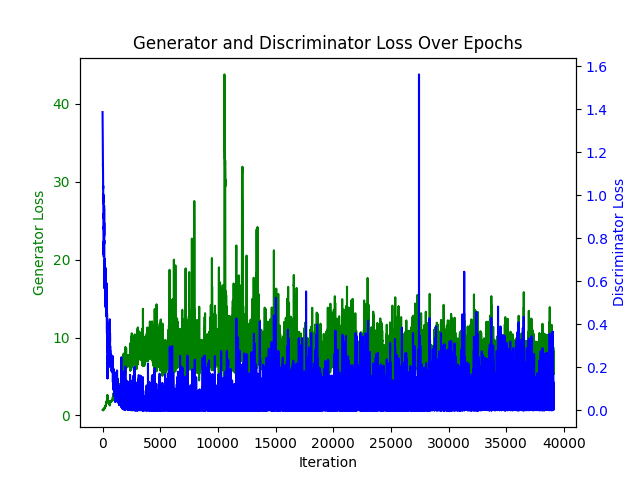
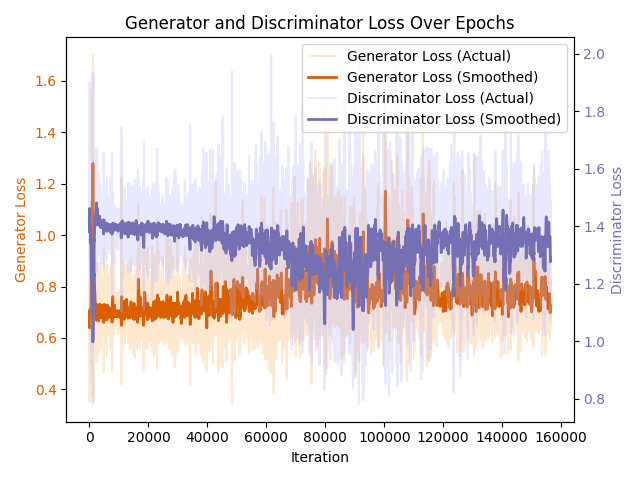
Modify basic GAN

diff --git a/generator.py b/generator.py
@@ -5,18 +5,19 @@ from torchvision import datasets, transforms
 from torchvision.utils import save_image
 import matplotlib.pyplot as plt
 import os
+import numpy as np
 
-# DataLoader for CIFAR-10
+# CIFAR-10 dataloader
 def get_dataloader(batch_size):
     transform = transforms.Compose([
         transforms.ToTensor(),
-        transforms.Normalize((0.5, 0.5, 0.5), (0.5, 0.5, 0.5))
+        transforms.Normalize((0.5, 0.5, 0.5), (0.5, 0.5, 0.5)) # 归一化
     ])
     dataset = datasets.CIFAR10(root='./data', train=True, download=True, transform=transform)
     dataloader = torch.utils.data.DataLoader(dataset, batch_size=batch_size, shuffle=True)
     return dataloader
 
-# Generator for GAN
+# GAN 生成器
 class Generator(nn.Module):
     def __init__(self, noise_dim, img_channels):
         super(Generator, self).__init__()
@@ -35,7 +36,7 @@ class Generator(nn.Module):
         x = self.model(x)
         return x.view(x.size(0), 3, 32, 32)
 
-# Discriminator for GAN
+# GAN 判别器
 class Discriminator(nn.Module):
     def __init__(self, img_channels):
         super(Discriminator, self).__init__()
@@ -54,7 +55,7 @@ class Discriminator(nn.Module):
     def forward(self, x):
         return self.model(x)
 
-# Training GAN
+# 训练 GAN
 def train_gan(dataloader, generator, discriminator, g_optimizer, d_optimizer, criterion, noise_dim, device, epochs):
     generator.train()
     discriminator.train()
@@ -67,7 +68,7 @@ def train_gan(dataloader, generator, discriminator, g_optimizer, d_optimizer, cr
             real_images = real_images.to(device)
             batch_size = real_images.size(0)
 
-            # Train Discriminator
+            # 训练判别器
             noise = torch.randn(batch_size, noise_dim).to(device)
             fake_images = generator(noise)
 
@@ -81,7 +82,7 @@ def train_gan(dataloader, generator, discriminator, g_optimizer, d_optimizer, cr
             d_loss.backward()
             d_optimizer.step()
 
-            # Train Generator
+            # 训练生成器
             g_optimizer.zero_grad()
             g_loss = criterion(discriminator(fake_images), real_labels)
             g_loss.backward()
@@ -92,14 +93,14 @@ def train_gan(dataloader, generator, discriminator, g_optimizer, d_optimizer, cr
 
         print(f"Epoch [{epoch+1}/{epochs}] - D Loss: {d_loss.item():.4f}, G Loss: {g_loss.item():.4f}")
 
-        # Save some generated images for visualization
+        # 每 10 epochs 保存一组生成图片
         if (epoch + 1) % 10 == 0:
             if os.path.exists('output') == False:
                 os.makedirs('output')
             save_image(fake_images[:25], f'output/epoch_{epoch+1}.png', nrow=5, normalize=True)
     return g_losses, d_losses
 
-# time-weighted EMA
+# 移动平均便于判断loss变化趋势
 def time_weighted_ema(data, alpha):
     ema = np.zeros_like(data)
     ema[0] = data[0]
@@ -108,35 +109,31 @@ def time_weighted_ema(data, alpha):
     return ema
 
 if __name__ == "__main__":
-    # Hyperparameters
+
     batch_size = 64
     noise_dim = 100
     img_channels = 3
     epochs = 200
-    lr = 0.00002
+    g_lr = 0.0001
+    d_lr = 0.000005
 
-    # Device configuration
     device = torch.device('cuda' if torch.cuda.is_available() else 'cpu')
 
-    # Prepare DataLoader
     dataloader = get_dataloader(batch_size)
 
-    # Initialize models
     generator = Generator(noise_dim, img_channels).to(device)
     discriminator = Discriminator(img_channels).to(device)
 
-    # Loss and optimizers
     criterion = nn.BCELoss()
-    g_optimizer = optim.Adam(generator.parameters(), lr=lr)
-    d_optimizer = optim.Adam(discriminator.parameters(), lr=lr)
+    g_optimizer = optim.Adam(generator.parameters(), lr=g_lr)
+    d_optimizer = optim.Adam(discriminator.parameters(), lr=d_lr)
 
-    # Train GAN
     g_losses, d_losses = train_gan(dataloader, generator, discriminator, g_optimizer, d_optimizer, criterion, noise_dim, device, epochs)
 
-    # Visualize losses
+    # 可视化
 
     # 平滑参数
-    alpha = 0.02
+    alpha = 0.005
     g_losses_smoothed = time_weighted_ema(g_losses, alpha)
     d_losses_smoothed = time_weighted_ema(d_losses, alpha)
 
@@ -145,17 +142,17 @@ if __name__ == "__main__":
     fig, ax1 = plt.subplots()
 
     # 绘制生成器损失
-    ax1.fill_between(iterations, g_losses, color='#FDB462', alpha=0.3, label='Generator Loss (Actual)')  # 浅橙色阴影
-    ax1.plot(iterations, g_losses_smoothed, color='#D95F02', linewidth=2, label='Generator Loss (Smoothed)')  # 橙色主线
+    ax1.plot(g_losses, color='#FDB462', alpha=0.3, label='Generator Loss (Actual)')
+    ax1.plot(g_losses_smoothed, color='#D95F02', linewidth=2, label='Generator Loss (Smoothed)')
     ax1.set_xlabel('Iteration')
-    ax1.set_ylabel('Generator Loss', color='#D95F02')  # 橙色标签
+    ax1.set_ylabel('Generator Loss', color='#D95F02')
     ax1.tick_params(axis='y', labelcolor='#D95F02')
 
     # 绘制判别器损失
     ax2 = ax1.twinx()
-    ax2.fill_between(iterations, d_losses, color='#B3B3FF', alpha=0.3, label='Discriminator Loss (Actual)')  # 浅紫色阴影
-    ax2.plot(iterations, d_losses_smoothed, color='#7570B3', linewidth=2, label='Discriminator Loss (Smoothed)')  # 紫色主线
-    ax2.set_ylabel('Discriminator Loss', color='#7570B3')  # 紫色标签
+    ax2.plot(d_losses, color='#B3B3FF', alpha=0.3, label='Discriminator Loss (Actual)')
+    ax2.plot(d_losses_smoothed, color='#7570B3', linewidth=2, label='Discriminator Loss (Smoothed)')
+    ax2.set_ylabel('Discriminator Loss', color='#7570B3')
     ax2.tick_params(axis='y', labelcolor='#7570B3')
 
     # 添加标题和图例
